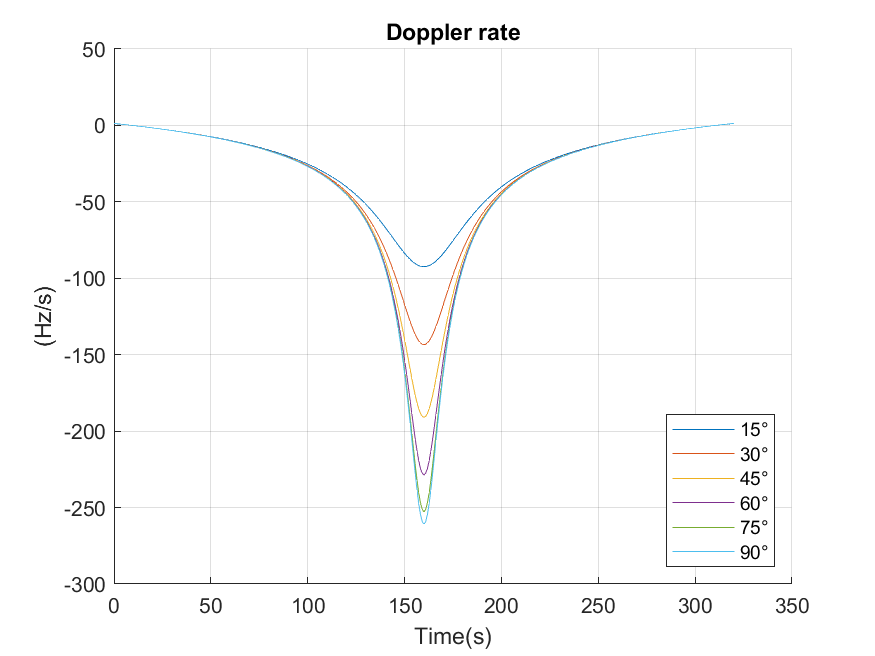
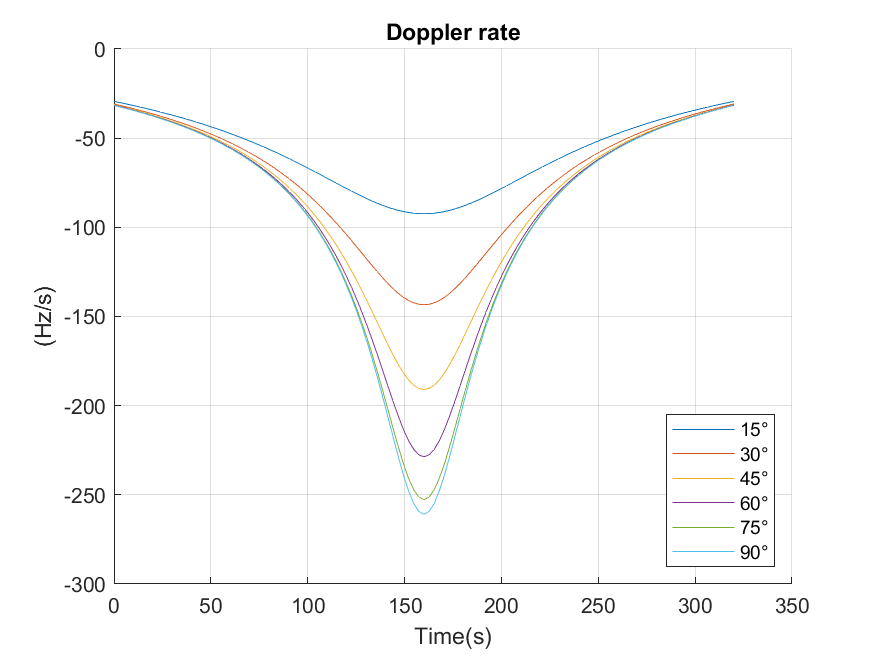
Applatissement courbe Doppler shift

diff --git a/Mission 1/Localisation ARGOS/Doppler_courbe.m b/Mission 1/Localisation ARGOS/Doppler_courbe.m
@@ -11,34 +11,33 @@ re = 6371e3;                            %  Rayon de la terre
 
 h = 550e3;                             % Altitude du satellite
 r = re +h;
-f=868e6; %fréquence envoie chirp
+f=868e6;                                % Fréquence envoie chirp
+
+i = 60*d2r;                             % inclinaison du satellite
+vit_ang_terre = 2*pi/(24*3600);         % vitesse angulaire de la rotation terrestre
+G = 6.6743*10^(-11);                    % Constante de gravitation
+M = 5.972*10^24;                        % Masse de la Terre
+T = 2*pi*sqrt(r^3/(G*M));               % Période de rotation du satellite
+vit_ang_sat = 2*pi/T;                   % vitesse angulaire du satellite
+omega_f = vit_ang_sat - vit_ang_terre*cos(i);   % vitesse angulaire du satellite dans l'ECF
+diff_psi = [30:-0.5:-30]*d2r;                              % distance angulaire reliant deux points mesurés sur la surface terrestre
+t = 1/(vit_ang_sat/(2*d2r));
+%temps = 0:round(t):(length(diff_psi)-1)*round(t);
+
+
 figure(1)
 hold on;
 grid on;
 for k=1:length(plagetheta)
-    theta_max = (plagetheta(k))*d2r;              % Angle d'élévation max
-    i = 60*d2r;                             % inclinaison du satellite
-    vit_ang_terre = 2*pi/(24*3600);         % vitesse angulaire de la rotation terrestre
-    G = 6.6743*10^(-11);                    % Constante de gravitation
-    M = 5.972*10^24;                        % Masse de la Terre
-    T = 2*pi*sqrt(r^3/(G*M));               % Période de rotation du satellite
-    vit_ang_sat = 2*pi/T;                   % vitesse angulaire du satellite
-    omega_f = vit_ang_sat - vit_ang_terre*cos(i);   % vitesse angulaire du satellite dans l'ECF
-    diff_psi = [90:-0.5:-90]*d2r;                              % distance angulaire reliant deux points mesurés sur la surface terrestre
-    t = 1/(vit_ang_sat/(2*d2r));
-   %
-  % temps = 0:round(t):(length(diff_psi)-1)*round(t);
-       num = -re.*r.*sin(diff_psi).*cos(acos(re./r.*cos(theta_max))-theta_max).*omega_f*f;
+    theta_max = (plagetheta(k))*d2r;         % Angle d'élévation max
+    
+    num = -re.*r.*sin(diff_psi).*cos(acos(re./r.*cos(theta_max))-theta_max).*omega_f;
     denom = c.*sqrt(re^2 + r^2-2.*re.*r.*cos(diff_psi).*cos(acos(re./r.*cos(theta_max))-theta_max));
 
-      Doppler = num./denom;
- %   Doppler_rate = (-re.*r.*omega_f.*cos(diff_psi).*cos(acos(re./r.*cos(theta_max))-theta_max).*omega_f.*denom - num.*c.*(2.*re.*r.*omega_f.*sin(diff_psi).*cos(acos(re./r.*cos(theta_max))-theta_max))./(2.*sqrt(denom)))./denom.^2;
+    Doppler = (num./denom).*f;
 
-    % subplot(2,2,k)
     temps=linspace(0,320,length(Doppler));
     plot(temps,Doppler)
-  %  xlabel("Angle difference for psi (°)"),ylabel("Doppler")
-  %  title("Theta max : "+theta_max +"degrés")
 end
 
 legend('15°','30°','45°','60°','75°','90°','location','southeast');
@@ -53,30 +52,15 @@ hold on;
 grid on;
 for k=1:length(plagetheta)
     theta_max = (plagetheta(k))*d2r;              % Angle d'élévation max
-    i = 60*d2r;                             % inclinaison du satellite
-    vit_ang_terre = 2*pi/(24*3600);         % vitesse angulaire de la rotation terrestre
-    G = 6.6743*10^(-11);                    % Constante de gravitation
-    M = 5.972*10^24;                        % Masse de la Terre
-    T = 2*pi*sqrt(r^3/(G*M));               % Période de rotation du satellite
-    vit_ang_sat = 2*pi/T;                   % vitesse angulaire du satellite
-    omega_f = vit_ang_sat - vit_ang_terre*cos(i);   % vitesse angulaire du satellite dans l'ECF
-    diff_psi = [90:-0.5:-90]*d2r;                              % distance angulaire reliant deux points mesurés sur la surface terrestre
-    t = 1/(vit_ang_sat/(2*d2r));
-    temps = 0:round(t):90*round(t);
 
     num = -re.*r.*sin(diff_psi).*cos(acos(re./r.*cos(theta_max))-theta_max).*omega_f;
     denom = c.*sqrt(re^2 + r^2-2.*re.*r.*cos(diff_psi).*cos(acos(re./r.*cos(theta_max))-theta_max));
 
-  %  Doppler = num./denom;
     Doppler_rate = f*(-re.*r.*omega_f.*cos(diff_psi).*cos(acos(re./r.*cos(theta_max))-theta_max).*omega_f.*denom - num.*c.*(2.*re.*r.*omega_f.*sin(diff_psi).*cos(acos(re./r.*cos(theta_max))-theta_max))./(2.*sqrt(denom)))./denom.^2;
 
 
-
-   % subplot(2,2,k)
     temps=linspace(0,320,length(Doppler));
     plot(temps,Doppler_rate)
-  %  xlabel("Angle difference for psi (°)"),ylabel("Doppler")
-  %  title("Theta max : "+theta_max +"degrés")
 end
 
 legend('15°','30°','45°','60°','75°','90°','location','southeast');
@@ -86,8 +70,3 @@ ylabel("(Hz/s)")
 hold off
 
 saveas(2,"doppler_rate.png")
-% figure()
-% plot(temps,Doppler_rate)
-% xlabel("Angle difference for psi (°)"),ylabel("Doppler rate")
-% title("Theta max : "+5 +"degrés")
-%title("Doppler rate en fonction de l elevation max")

diff --git a/Mission 1/Localisation ARGOS/init_localisation.m b/Mission 1/Localisation ARGOS/init_localisation.m
@@ -1,6 +1,6 @@
 function [phi,lambda]=init_localisation(vs,fr,ft,hs,R,etha,phis,lambdasat,phisat)
 % Fonction calculant l'intersection cone-sphere en cartésien et en
-% géographique (Marche pas)
+% géographique (A revoir)
 %Entrées : vs :vitesse du satellite
 %          fr :fréquence reçue au niveau du satellite
 %          ft :fréquence transmise par la balise
@@ -28,8 +28,8 @@ alpha = pi - atan(tan(lambdasat)/sin(phisat));  % azimuth (angle) du Nord vers l
 Z2_01 = hs*sin(theta)^2 + sqrt(R^2- hs^2*sin(theta)^2)*cos(theta);
 Z2_02 = hs*sin(theta)^2 - sqrt(R^2- hs^2*sin(theta)^2)*cos(theta);
 
-disp("Z2_01 : "+ Z2_01)
-disp("Z2_02 : " + Z2_02)
+% disp("Z2_01 : "+ Z2_01)
+% disp("Z2_02 : " + Z2_02)
 
 if(Z2_01 >=0 && Z2_02 <0)       % sens physique (la coordonnée doit être >=0)
     Z2_0 = Z2_01;
@@ -41,8 +41,8 @@ end
 
 val_racine1 = R^2 - hs^2*sin(etha+theta)^2;         % gère les cas pour que cela soit positif sous la racine                 
 val_racine2 = R^2 - hs^2*sin(etha-theta)^2;
-disp(val_racine1)
-disp(val_racine2)
+% disp(val_racine1)
+% disp(val_racine2)
 
 if(val_racine1 >=0 && val_racine2 <0)                           
     Z2_L = hs*sin(etha+theta)^2 + sqrt(val_racine1)*cos(etha+theta);
@@ -52,15 +52,15 @@ elseif(val_racine1 >=0 && val_racine2>=0)
     Z2_L = hs*sin(etha+theta)^2 + sqrt(val_racine1)*cos(etha+theta);
 end
 
-%disp("Z2_0 : " +Z2_0)
-%disp("Z2_L : " +Z2_L)
+% disp("Z2_0 : " +Z2_0)
+% disp("Z2_L : " +Z2_L)
 
 Z2 =Z2_L;
 
 X21 = (1/sin(etha))*((Z2-hs)*cos(etha) + sqrt(hs^2 + R^2 -2*hs*Z2)*cos(theta));
 X22 = (1/sin(etha))*((Z2-hs)*cos(etha) - sqrt(hs^2 + R^2 -2*hs*Z2)*cos(theta));
-disp("X21 : " +X21)
-disp("X22: " +X22)
+% disp("X21 : " +X21)
+% disp("X22: " +X22)
 
 if(X21<0 && X22>=0)         % sens physique (la coordonnée doit être >=0)
     X2 = X22;
@@ -72,7 +72,7 @@ else
     X2 = abs(X21);
 end
 
-Y2 = sqrt(R^2 -X2^2 -Z2^2);
+Y2 = sqrt(abs(R^2 -X2^2 -Z2^2));
 
 % Rotation autour de l'axe Z2 d'un angle alpha
 U= Y2*sin(alpha) +X2*cos(alpha);
@@ -80,12 +80,15 @@ V= Y2*cos(alpha) -X2*sin(alpha);
 W=Z2;
 
 % Rotation autour de l'axe V d'un angle 90°-phis
-U1 = U*sin(phis) -W*cos(phis);
+U1 = U.*sin(phis) -W.*cos(phis);
 V1 = V;
-W1= U*cos(phis) +W*sin(phis);
+W1= U.*cos(phis) +W.*sin(phis);
 
-phi = asin(W1/R);
-lambda= asin(V1/sqrt(U1^2 +V1^2));
+if(W1/R >=-1 && W1/R<=1)
+    phi = asin(W1./R);
+end
+
+lambda= asin(V1./sqrt(U1.^2 +V1.^2));
 lambda = lambda + lambdasat;
 
 end

diff --git a/Mission 1/Localisation ARGOS/ARGOS.m b/Mission 1/Localisation ARGOS/ARGOS.m
@@ -86,11 +86,11 @@ GE=RE+hs;
 GP=RP+hs;
 
 ft0 = 868e6;                   % Fréquence d'emission par la plateforme
-fr1 = ft0 + 5e3;               % Fréquence reçue au début du premier
-fr2 = ft0 - 7e3;
+fr1 = ft0 + 3e3;               % Fréquence reçue au début du premier
+fr2 = ft0 - 5e3;
 R = 6371e3;                    % Rayon de la terre
-etha = 15*d2r;                 % Angle entre l'axe joignant le sommet du cône et le centre de la sphère avec l'axe Z
-phis = 70*d2r;                 % Latitude au point sous-sommet du cone
+etha = 1*d2r;                 % Angle entre l'axe joignant le sommet du cône et le centre de la sphère avec l'axe Z
+phis = -87*d2r;                % Latitude au point sous-sommet du cone
 lambdasat = S_long(1)*d2r;
 phisat = S_lat(1)*d2r;
 rov=FoV(Ecc(1),a, e, w, eps);   %rov :the radius of the Field of View in degrees.
